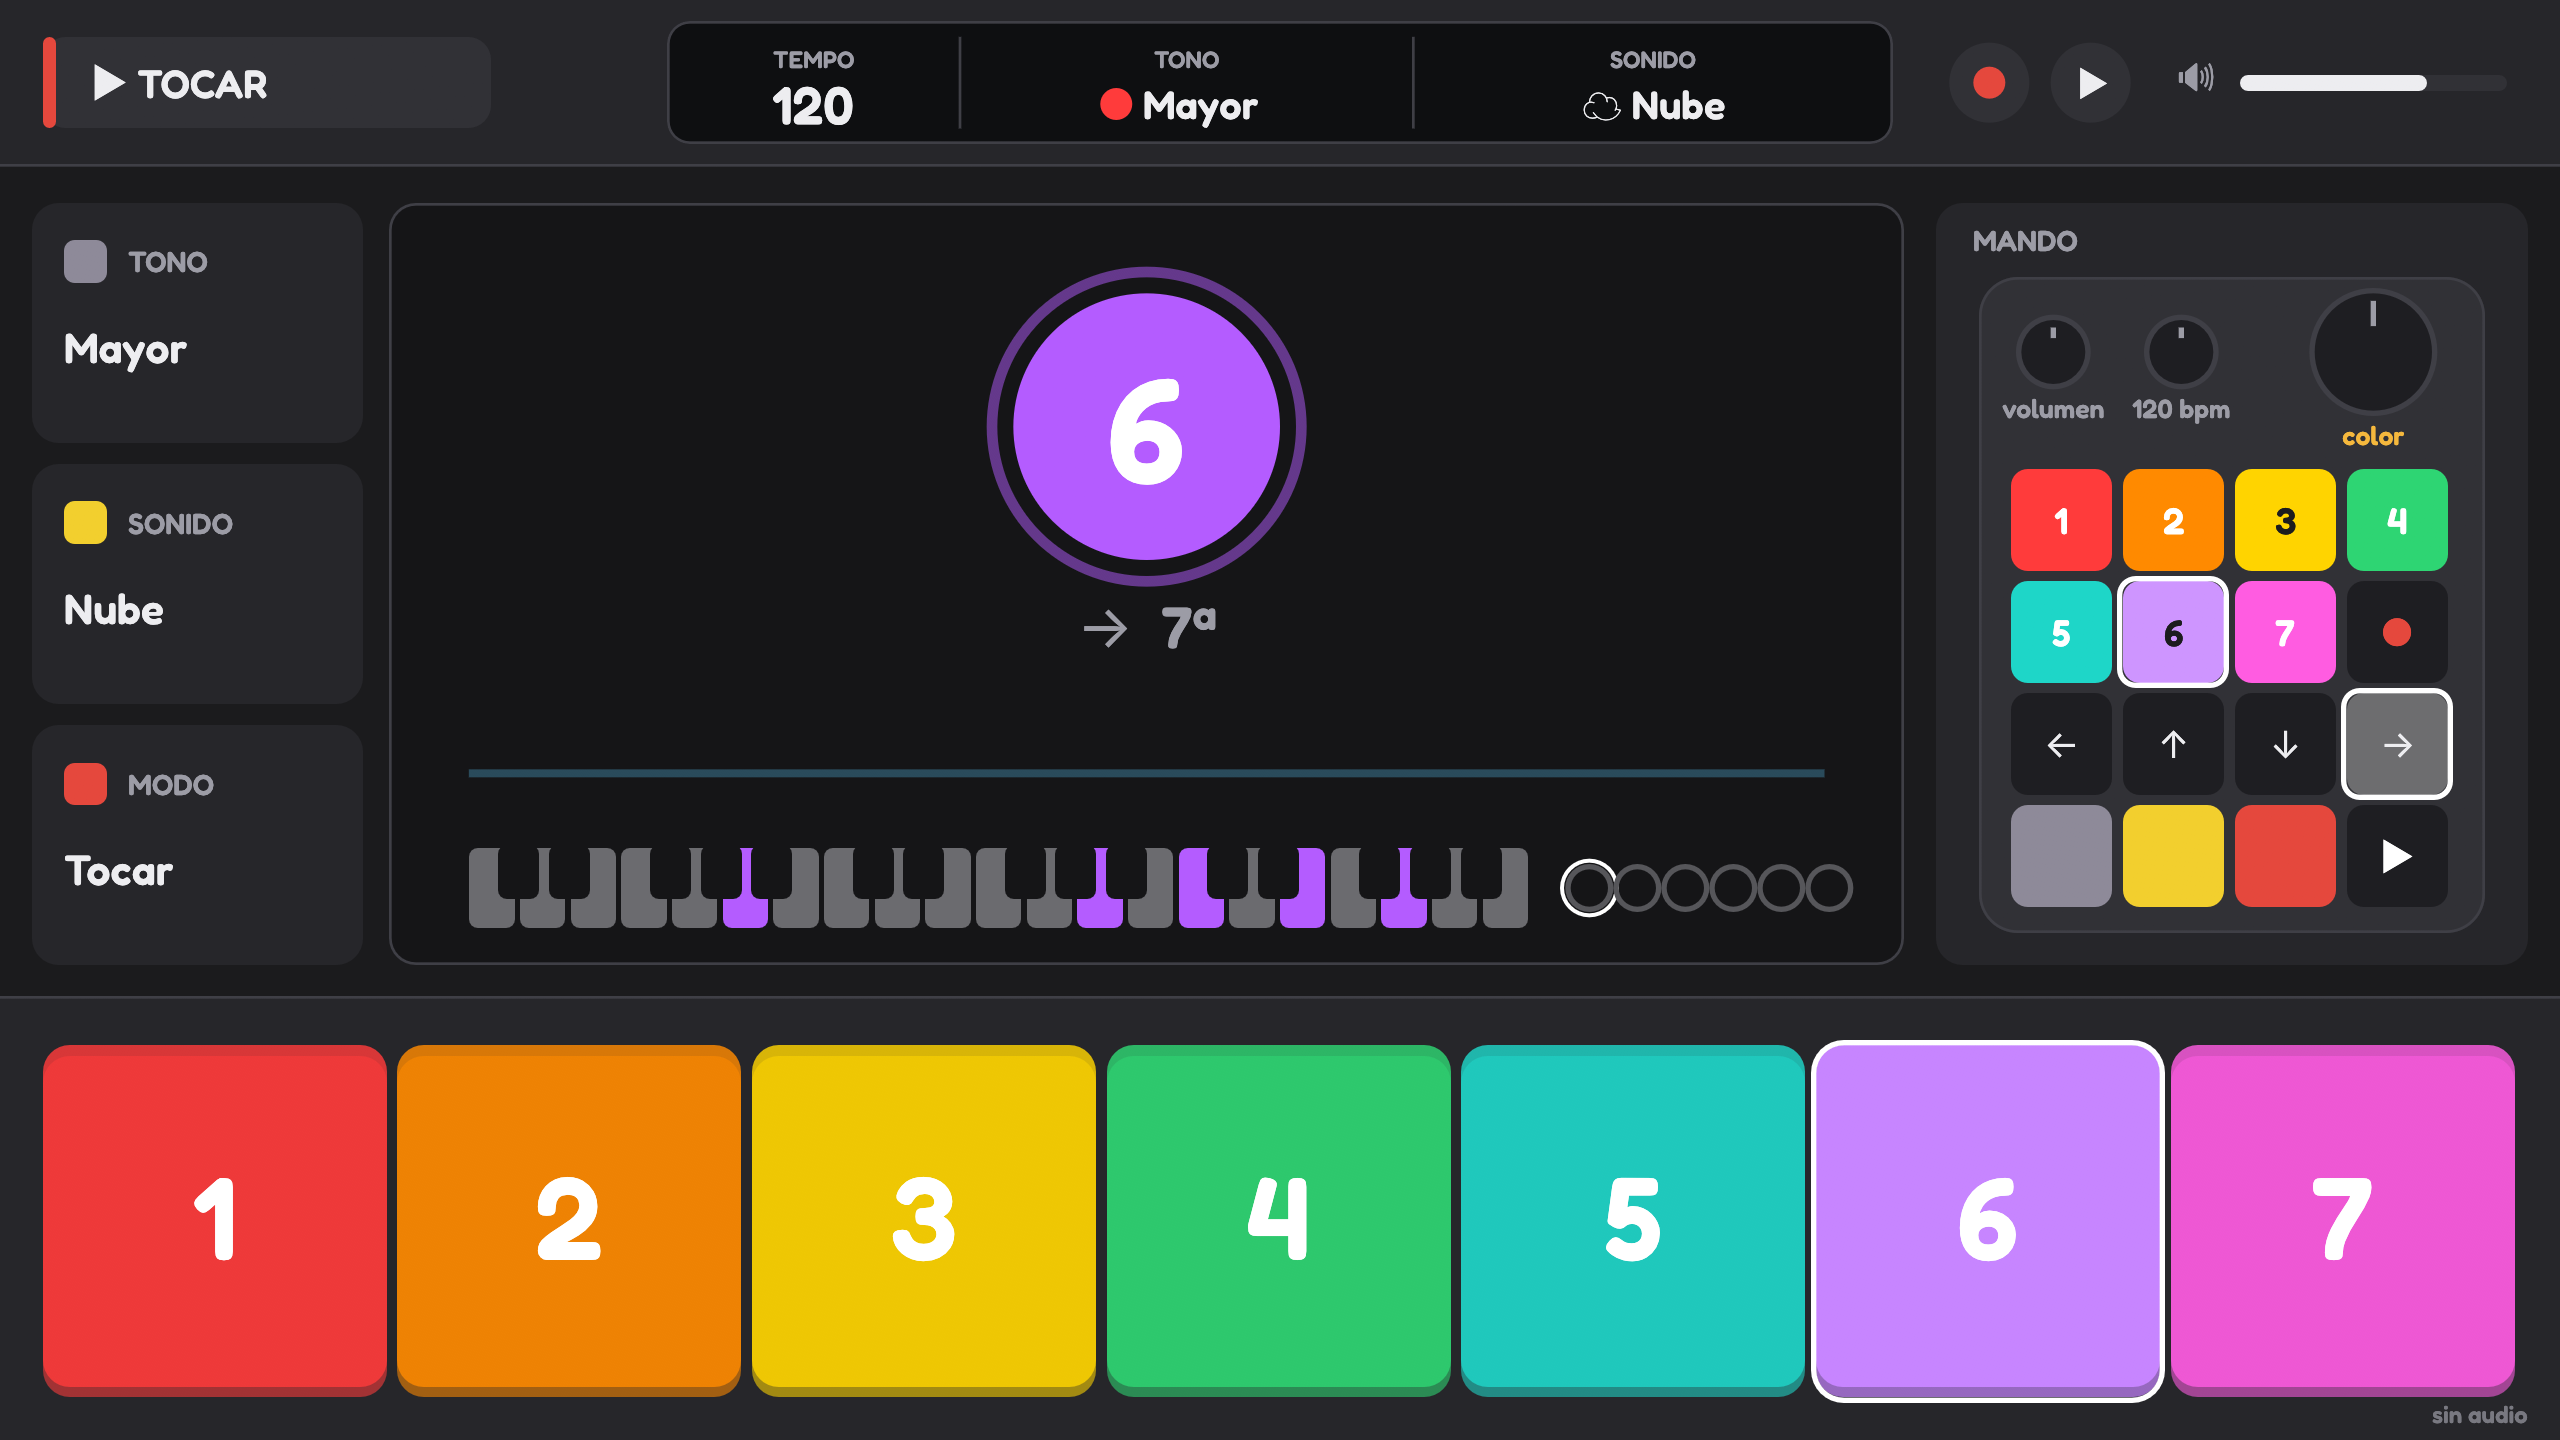
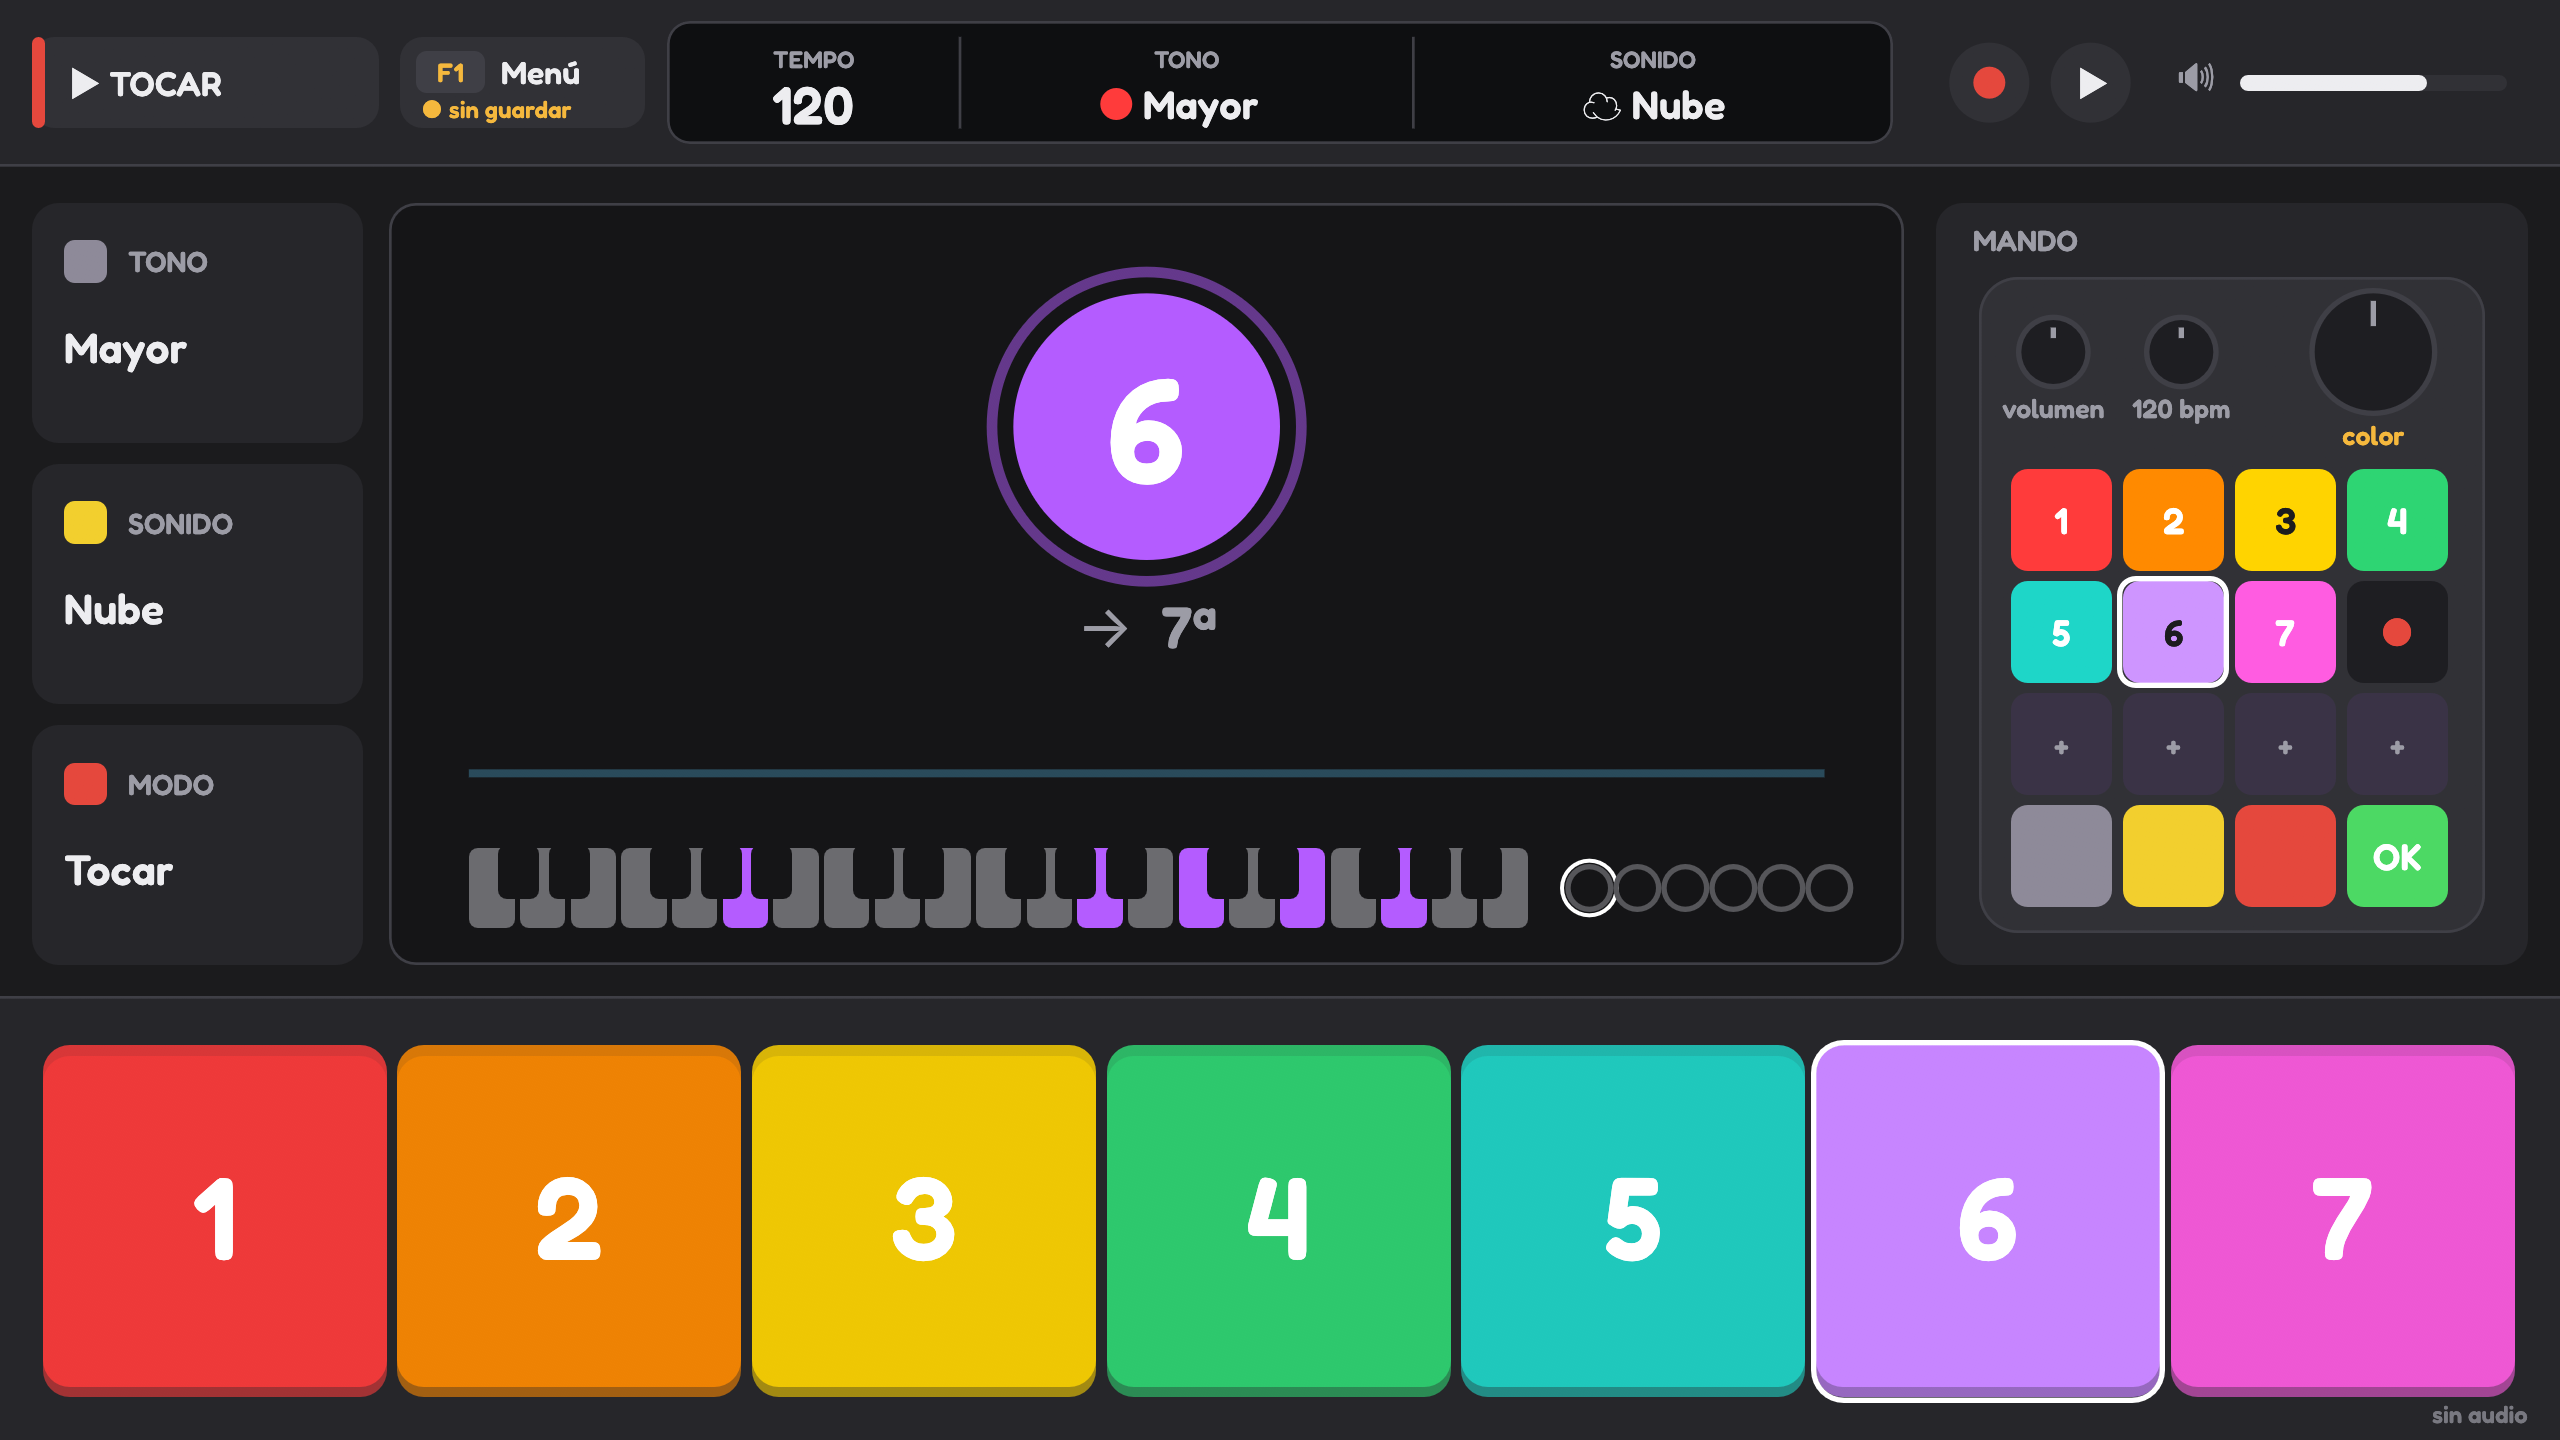
feat: la barra de arriba enseña la tecla F1 y si la canción está guardada
Junto al modo hay una tecla dibujada "F1 Menú" y, debajo, el estado de la
canción: "● sin guardar" en ámbar o su nombre si ya está guardada. Así
se ve que existe el menú de guardar, nombre, copia y canción nueva.
También se actualiza la captura del README.

Changed region(s): [[0.7812, 0.4688, 0.9688, 0.625], [0.0, 0.0312, 0.0938, 0.0938], [0.1562, 0.0312, 0.2188, 0.0938]]

diff --git a/crates/mapach-app/src/ui.rs b/crates/mapach-app/src/ui.rs
@@ -133,6 +133,8 @@ pub struct SongsView<'a> {
     /// Segundos desde el último guardado.
     pub saved_ago: Option<f64>,
     pub last_export: Option<&'a std::path::Path>,
+    /// ¿La canción actual está guardada?
+    pub saved: bool,
 }
 
 pub fn draw(c: &Canvas, st: &State, extra: &Extra) {
@@ -143,7 +145,7 @@ pub fn draw(c: &Canvas, st: &State, extra: &Extra) {
     } else if st.screen == Screen::Taller {
         taller_screen(c, st, extra);
     } else {
-        top_bar(c, st);
+        top_bar(c, st, extra);
         sidebar(c, st);
         screen(c, st, extra);
         mando_panel(c, st);
@@ -169,21 +171,33 @@ pub fn draw(c: &Canvas, st: &State, extra: &Extra) {
 }
 
 /// Barra de arriba: modo, pantallita LCD con tempo, tono y sonido, y transporte.
-fn top_bar(c: &Canvas, st: &State) {
+fn top_bar(c: &Canvas, st: &State, extra: &Extra) {
     c.rect(0.0, 0.0, W, 62.0, 0.0, PANEL);
     c.line(&[(0.0, 62.0), (W, 62.0)], 1.0, BORDE);
 
     // Modo.
-    c.rect(16.0, 14.0, 168.0, 34.0, 8.0, PANEL_2);
-    c.rect(16.0, 14.0, 5.0, 34.0, 2.0, MENU_ROJO);
+    c.rect(12.0, 14.0, 130.0, 34.0, 8.0, PANEL_2);
+    c.rect(12.0, 14.0, 5.0, 34.0, 2.0, MENU_ROJO);
     c.text(
-        34.0,
+        26.0,
         31.0,
         Align2::LEFT_CENTER,
         st.play_mode.badge(),
-        15.0,
+        13.0,
         TEXTO,
     );
+
+    // Tecla F1: el menú (guardar, nombre, nueva…), con el estado de la canción.
+    c.rect(150.0, 14.0, 92.0, 34.0, 8.0, PANEL_2);
+    c.rect(156.0, 19.0, 26.0, 16.0, 4.0, BORDE);
+    c.text(169.0, 27.0, Align2::CENTER_CENTER, "F1", 10.0, ACENTO);
+    c.text(188.0, 27.0, Align2::LEFT_CENTER, "Menú", 12.0, TEXTO);
+    let (estado, col) = match &extra.songs {
+        Some(sv) if sv.saved => (sv.current.chars().take(12).collect::<String>(), TEXTO_2),
+        Some(_) => ("● sin guardar".to_string(), ACENTO),
+        None => (String::new(), TEXTO_2),
+    };
+    c.text(158.0, 41.0, Align2::LEFT_CENTER, estado, 9.0, col);
 
     // LCD.
     let (x0, x1) = (250.0, 710.0);

diff --git a/crates/mapach-app/src/main.rs b/crates/mapach-app/src/main.rs
@@ -942,6 +942,7 @@ impl eframe::App for App {
             busy: s.busy.as_deref(),
             saved_ago: s.last_saved.map(|t| now - t),
             last_export: s.last_export.as_deref(),
+            saved: s.is_saved(),
         });
         let t = &self.taller;
         let taller_view = Some(ui::TallerView {
